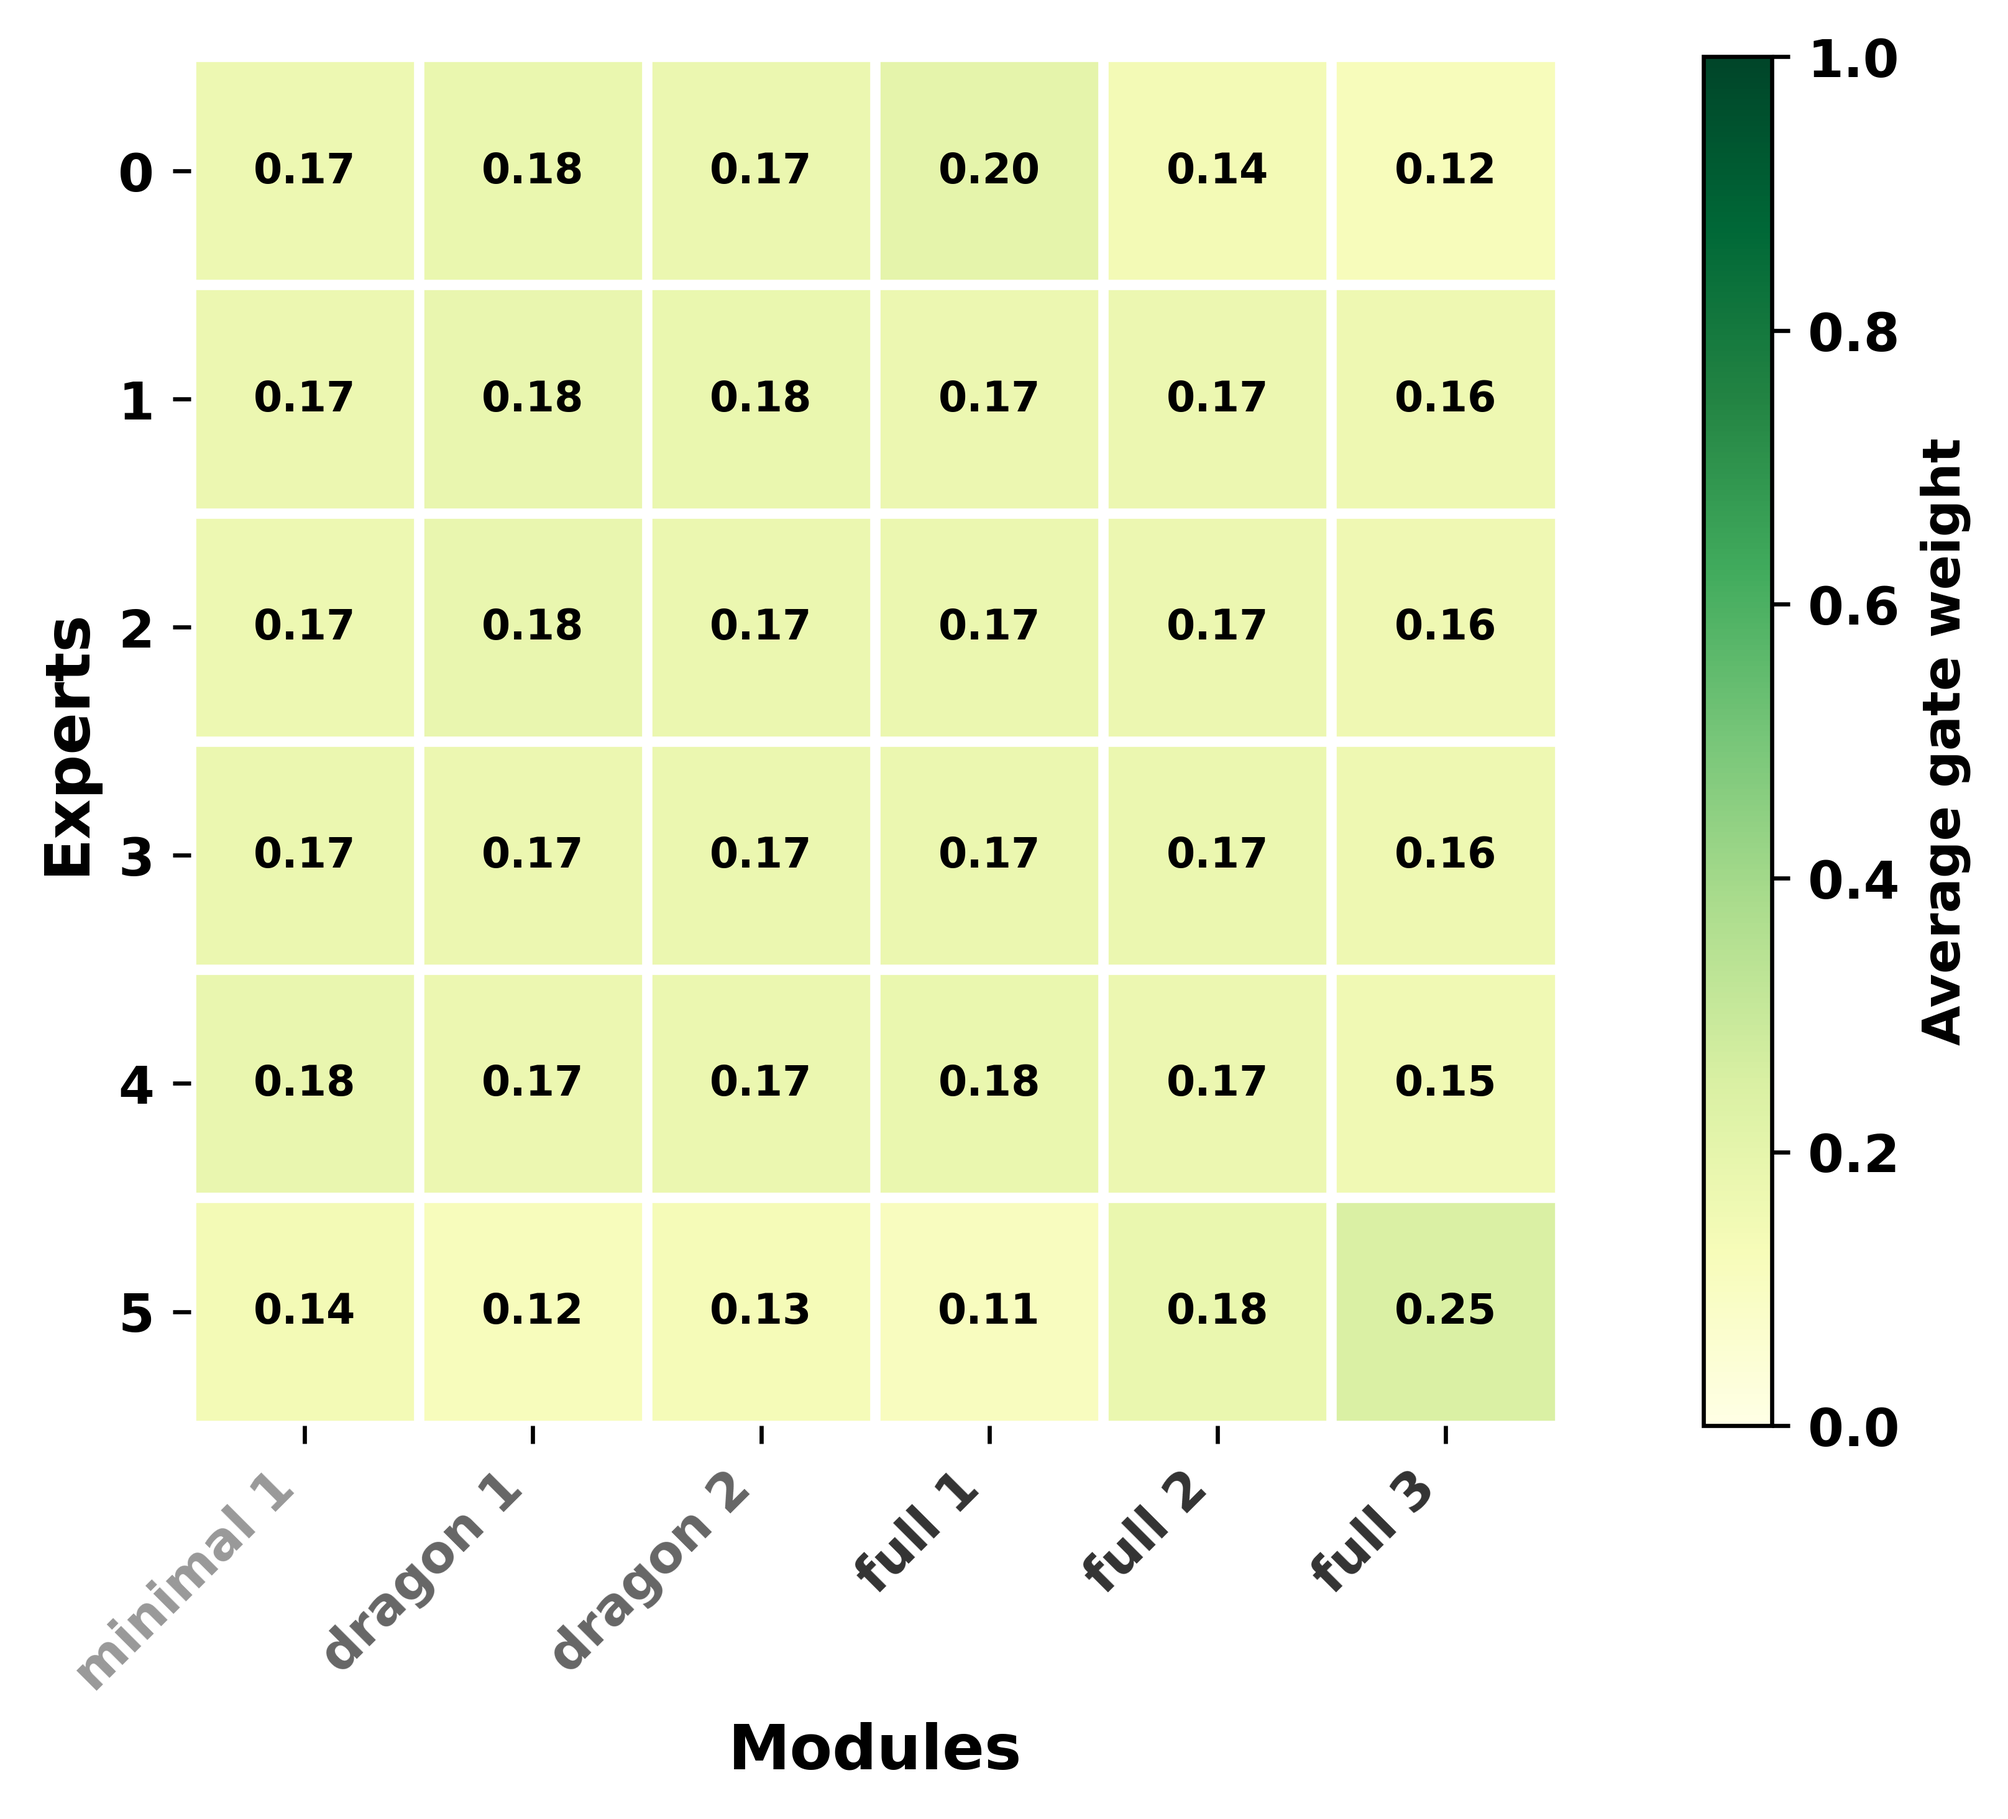
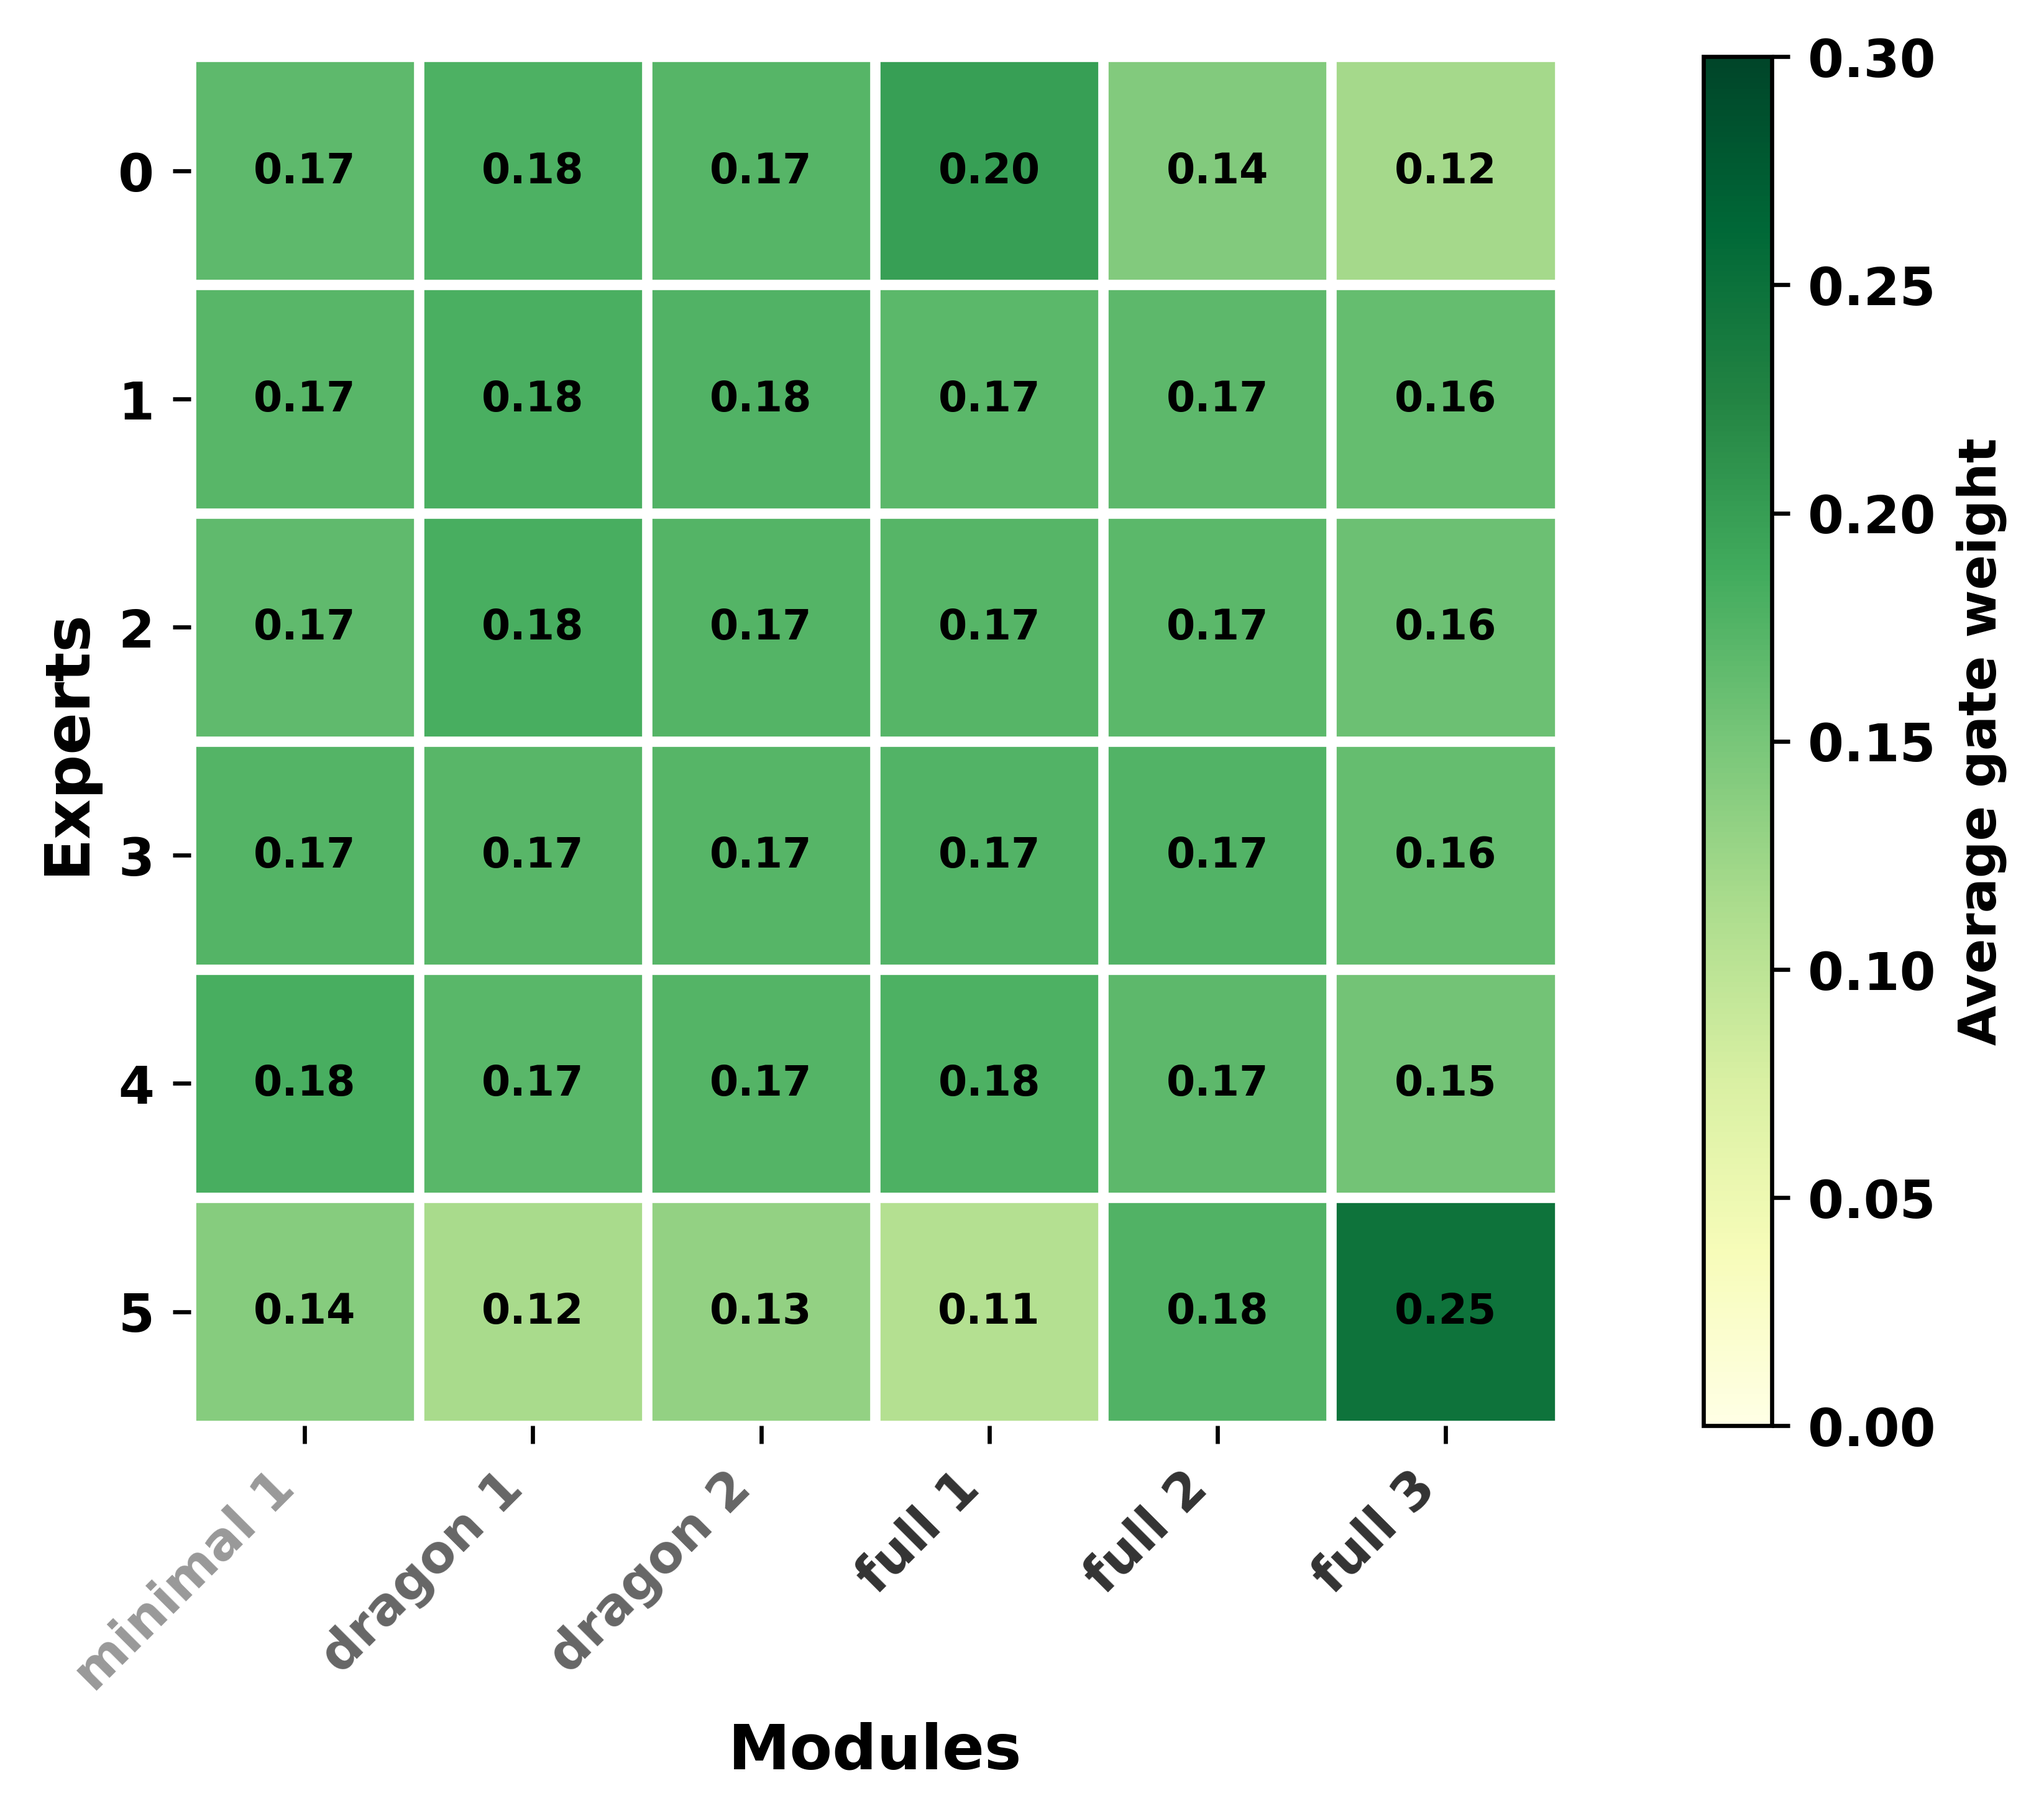
Upload heatmap.

diff --git a/M2oE/scripts/play_gate_heatmap.py b/M2oE/scripts/play_gate_heatmap.py
@@ -206,7 +206,7 @@ def main():
         figsize=(0.5 * gate_matrix.shape[1] + 5, 0.5 * num_experts + 2)
     )
 
-    im = ax.imshow(gate_matrix, vmin=0, vmax=1, cmap="YlGn", aspect="auto")
+    im = ax.imshow(gate_matrix, vmin=0, vmax=0.3, cmap="YlGn", aspect="auto")
 
     for sp in ax.spines.values():
         sp.set_visible(False)
